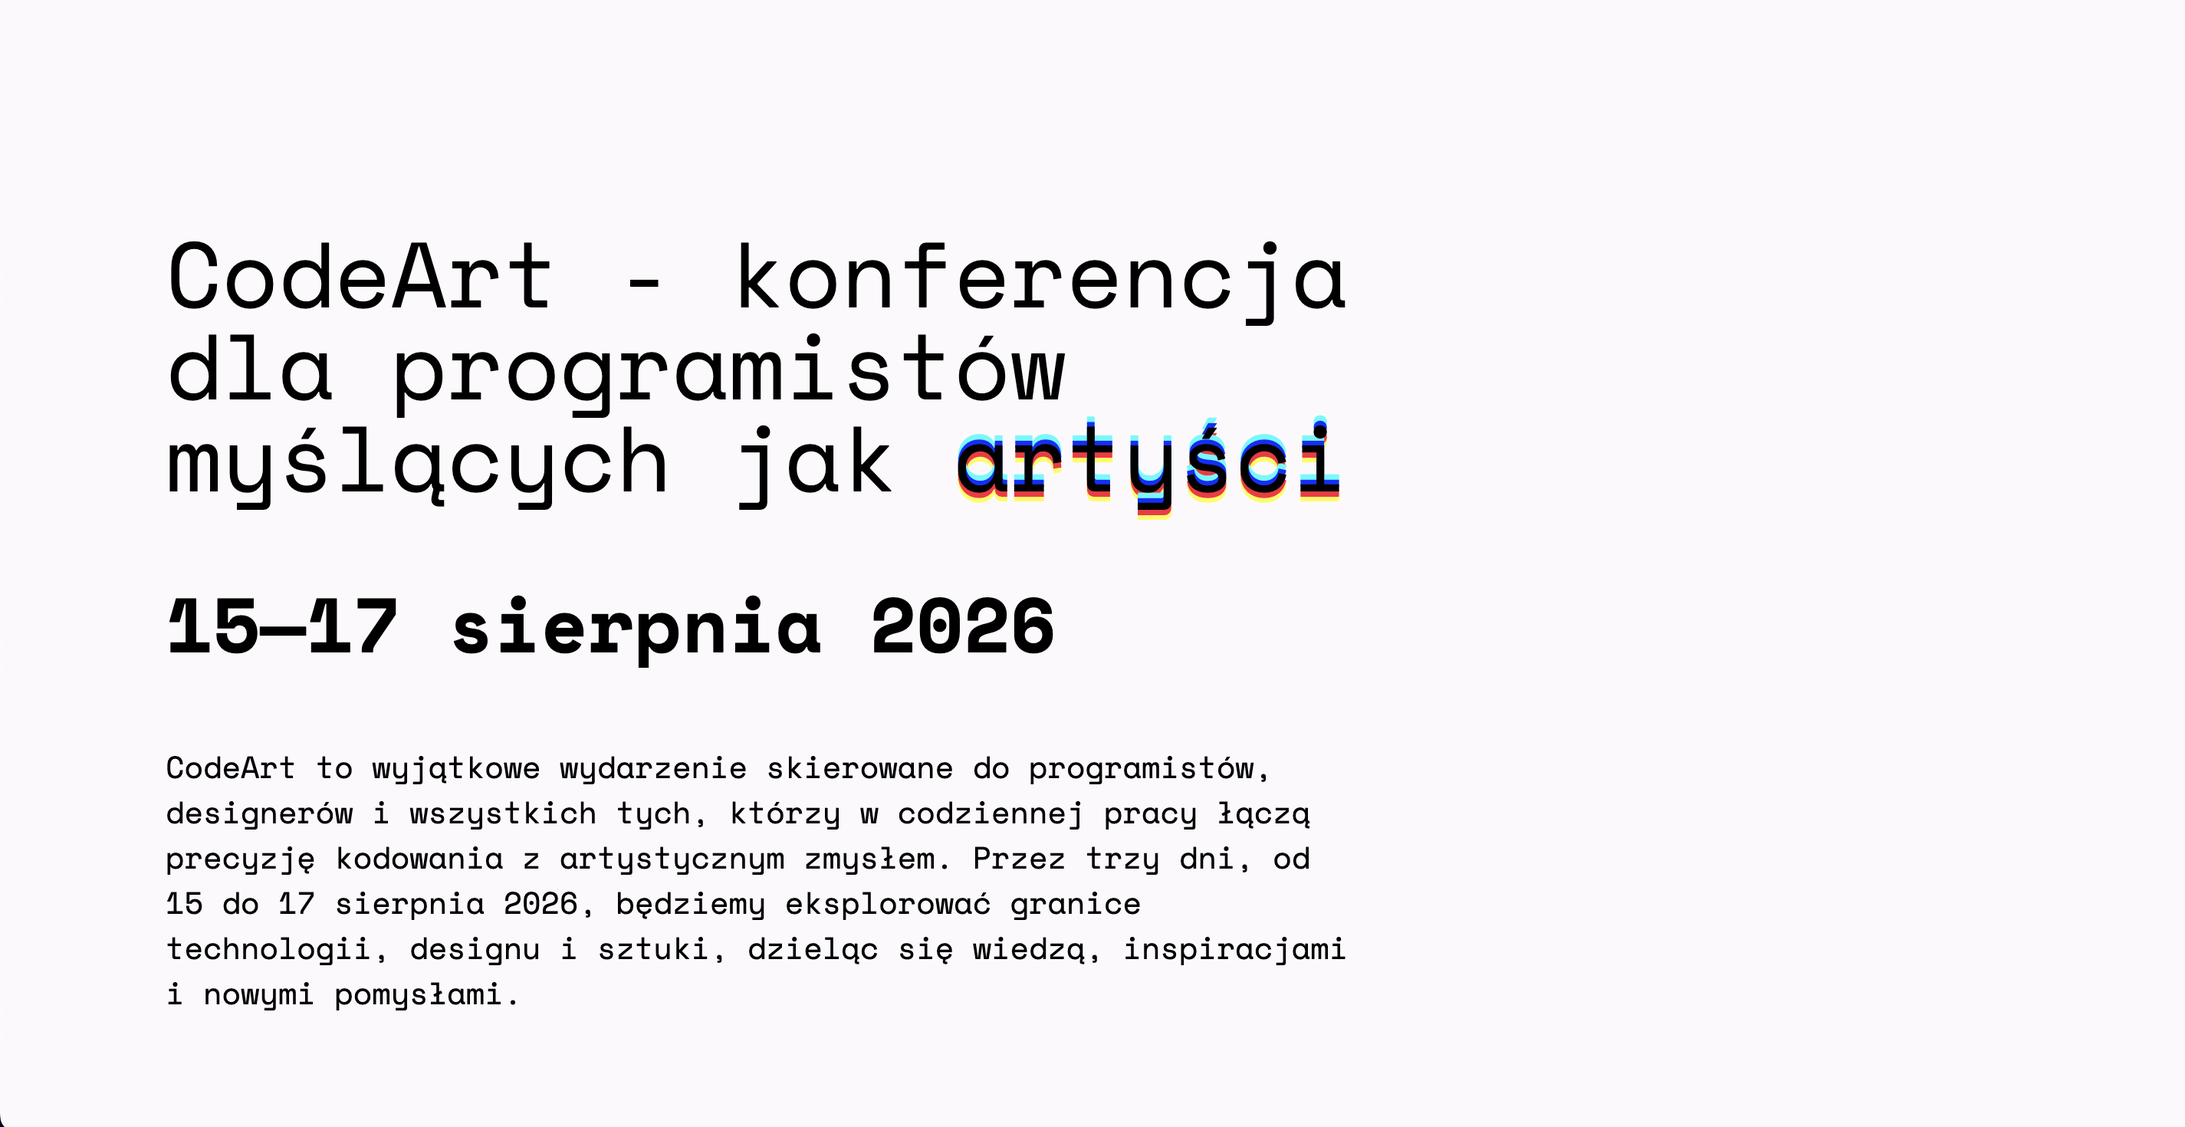
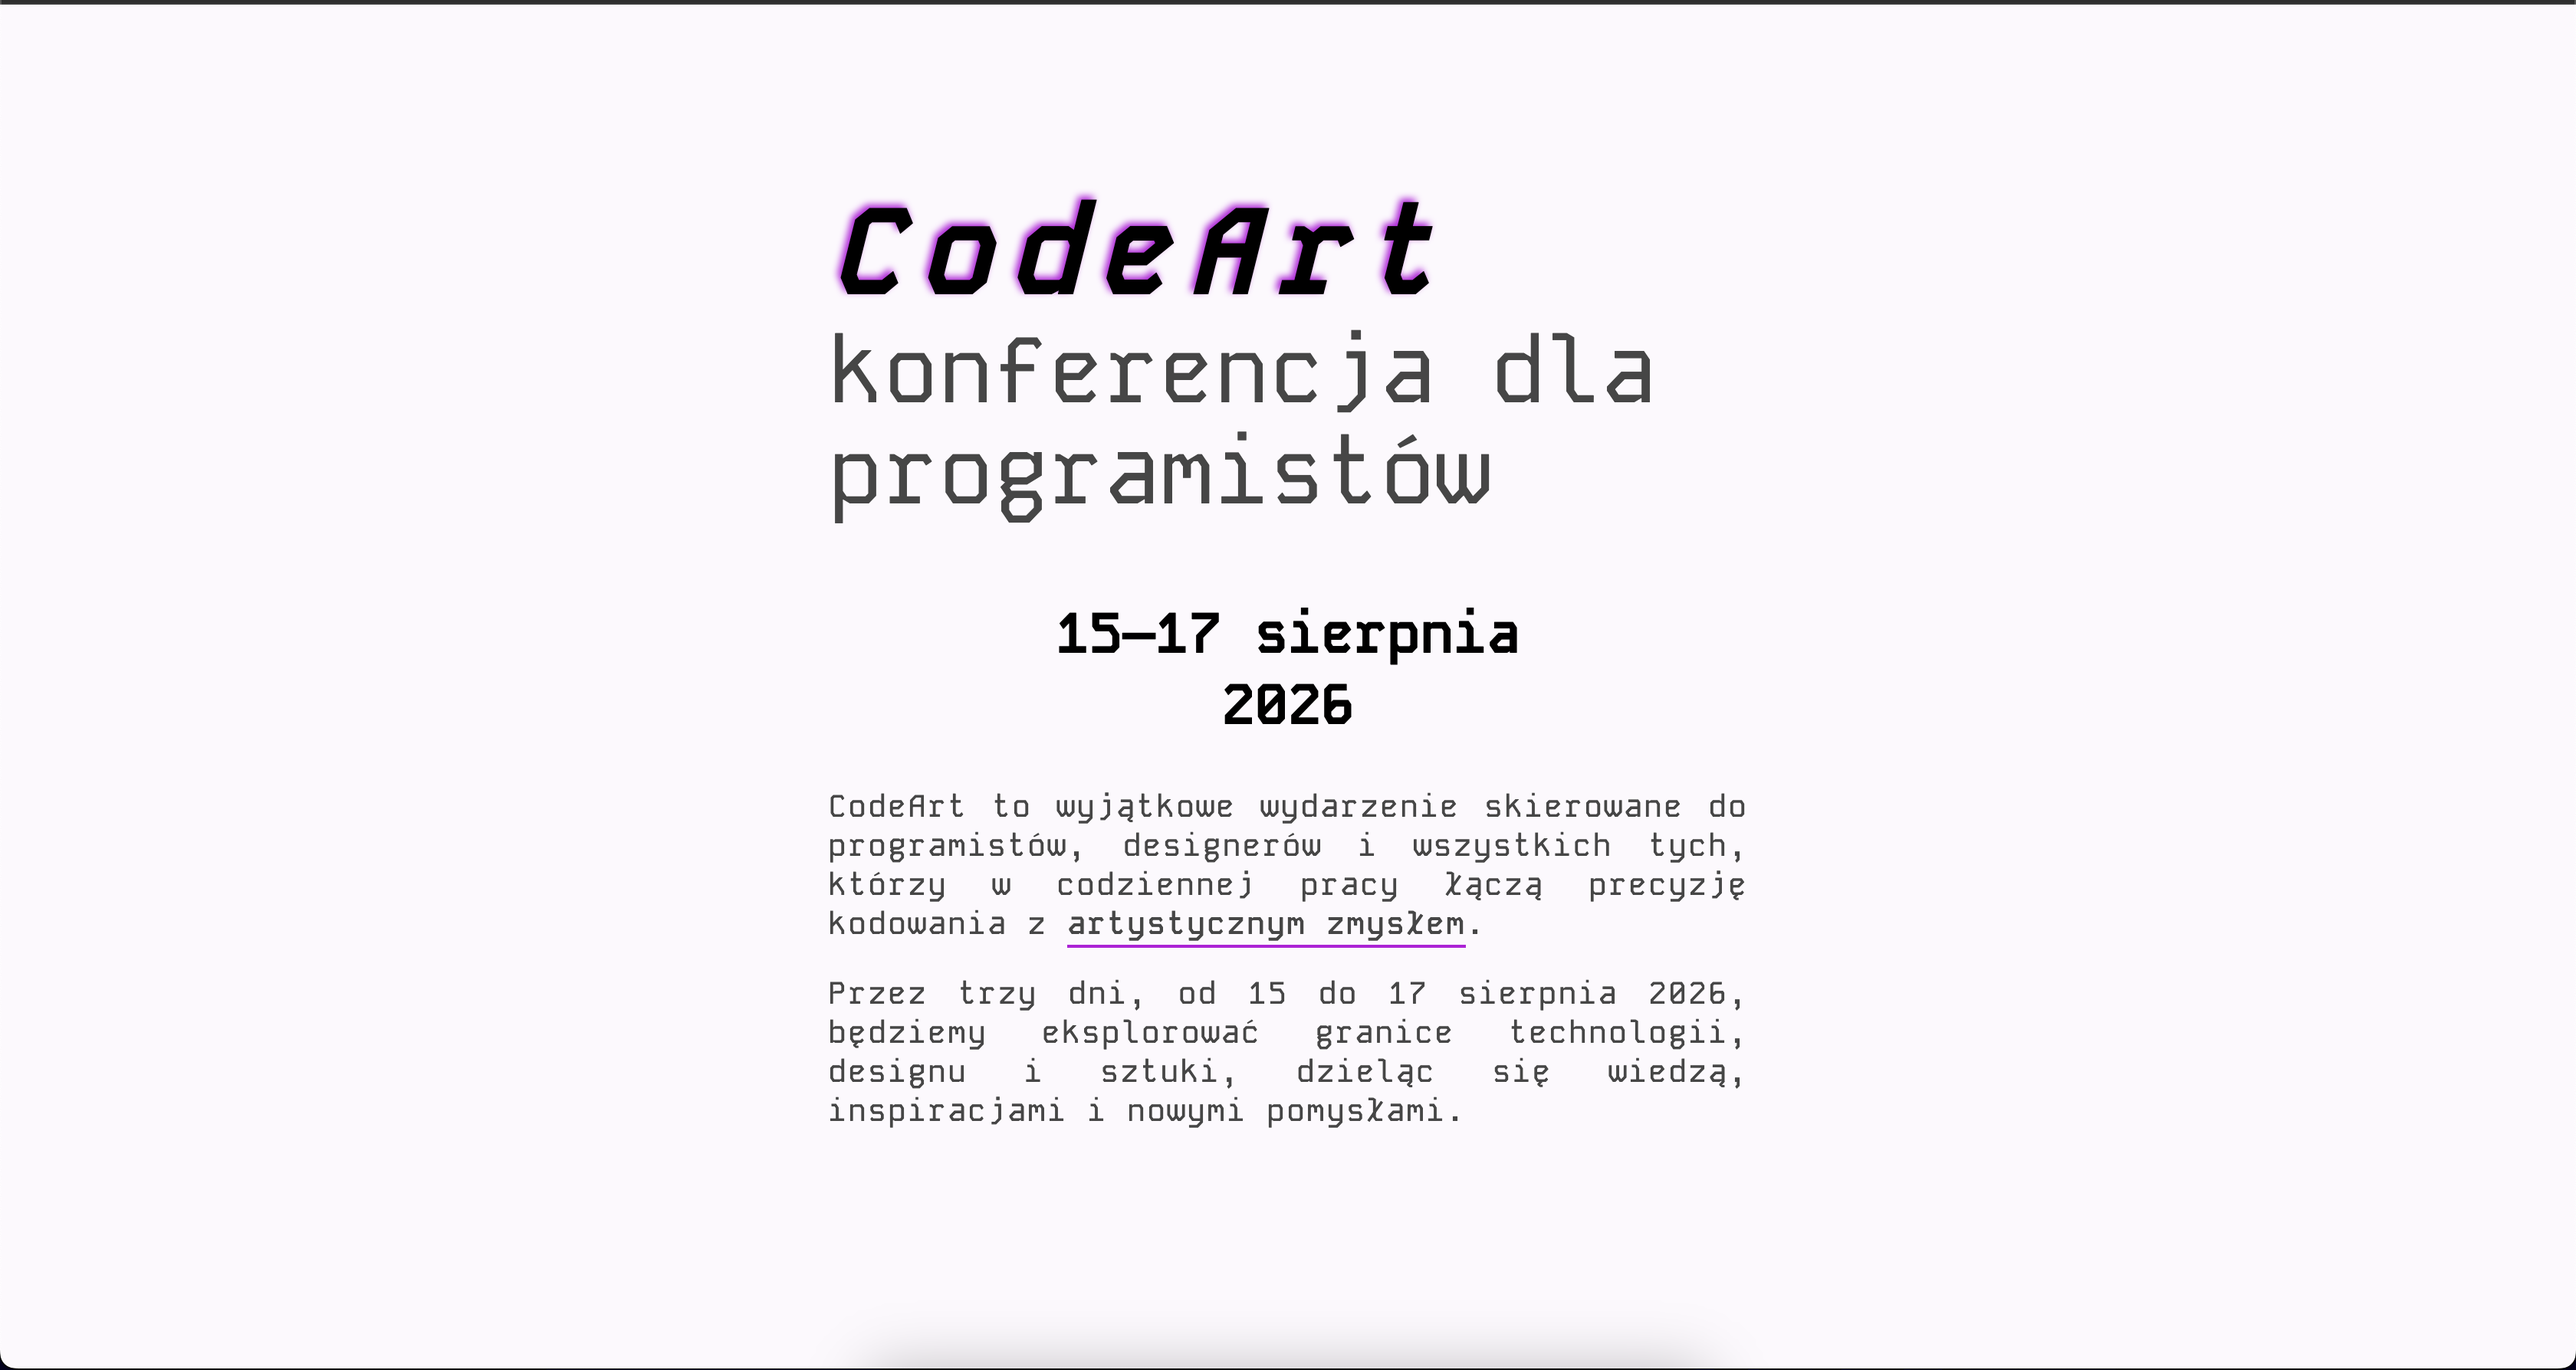
added styles detailed description

diff --git a/style.css b/style.css
@@ -1,7 +1,40 @@
-/* Dla całego dokumentu zastosuj czcionkę Space Mono, monospace  
-Kolor tła ustaw na #fdf9fd.
-Nagłówek H1 ma mieć rozmiar 60px, wysokość linii 1, a wagę 400.
-Nagłówek H2 ma mieć rozmiar 50px.
-Paragraf ma mieć rozmiar 20px.
-Sekcja ma mieć szerokość 55%, margines z lewej strony 100px oraz margines z góry 150px.
-Tekst w klasie .text-decoration ma mieć cień o kolorach: #0c2ffb, #2cfcfd, #fb203b, #fefc4b. */
+/* Dla elementu body zastosuj czcionkę Kode Mono, monospace, 
+tło o kolorze #fdf9fd, 
+kolor tekstu #464646. */
+
+
+/* Element H1 ma mieć rozmiar czcionki 60px, 
+wysokość wiersza 1.1, 
+czcionkę o wadze 400. */
+
+
+/* Element H2 ma mieć rozmiar czcionki 36px,
+tekst ma byc wyśrodkowany,
+kolor tekstu czarny. */
+
+
+/*Akapit ma mieć rozmiar czcionki 20px,
+odstęp między literami 1px,
+tekst wyjustowany. */
+
+
+/*Elementy o ID underline mają mieć podkreślenie,
+kolor podkreślenia #bc00dd,
+odstęp od tekstu 7px,
+czcionkę o wadze 500. */
+
+
+/*Elementy o klasie text-decoration mają mieć cień tekstu,
+kolor cienia #bc00dd,
+czcionkę o wadze 700,
+styl kursywa,
+odstęp między literami 10px,
+rozmiar czcionki 80px,
+kolor tekstu czarny. */
+
+
+section {
+  padding-top: 60px;
+  max-width: 600px;
+  margin: 0 auto;
+}

diff --git a/index.html b/index.html
@@ -9,16 +9,22 @@
   <body>
     <section>
       <h1>
-        CodeArt - konferencja dla programistów myślących jak
-        <span class="text-decoration">artyści</span>
+        <span class="text-decoration">CodeArt</span> konferencja dla
+        programistów
       </h1>
-      <h2>15—17 sierpnia 2026</h2>
+      <h2>
+        15—17 sierpnia <br />
+        2026
+      </h2>
       <p>
         CodeArt to wyjątkowe wydarzenie skierowane do programistów, designerów i
         wszystkich tych, którzy w codziennej pracy łączą precyzję kodowania z
-        artystycznym zmysłem. Przez trzy dni, od 15 do 17 sierpnia 2026,
-        będziemy eksplorować granice technologii, designu i sztuki, dzieląc się
-        wiedzą, inspiracjami i nowymi pomysłami.
+        <span id="underline">artystycznym zmysłem</span>.
+      </p>
+      <p>
+        Przez trzy dni, od 15 do 17 sierpnia 2026, będziemy eksplorować granice
+        technologii, designu i&nbsp;sztuki, dzieląc się wiedzą, inspiracjami
+        i&nbsp;nowymi pomysłami.
       </p>
     </section>
   </body>
